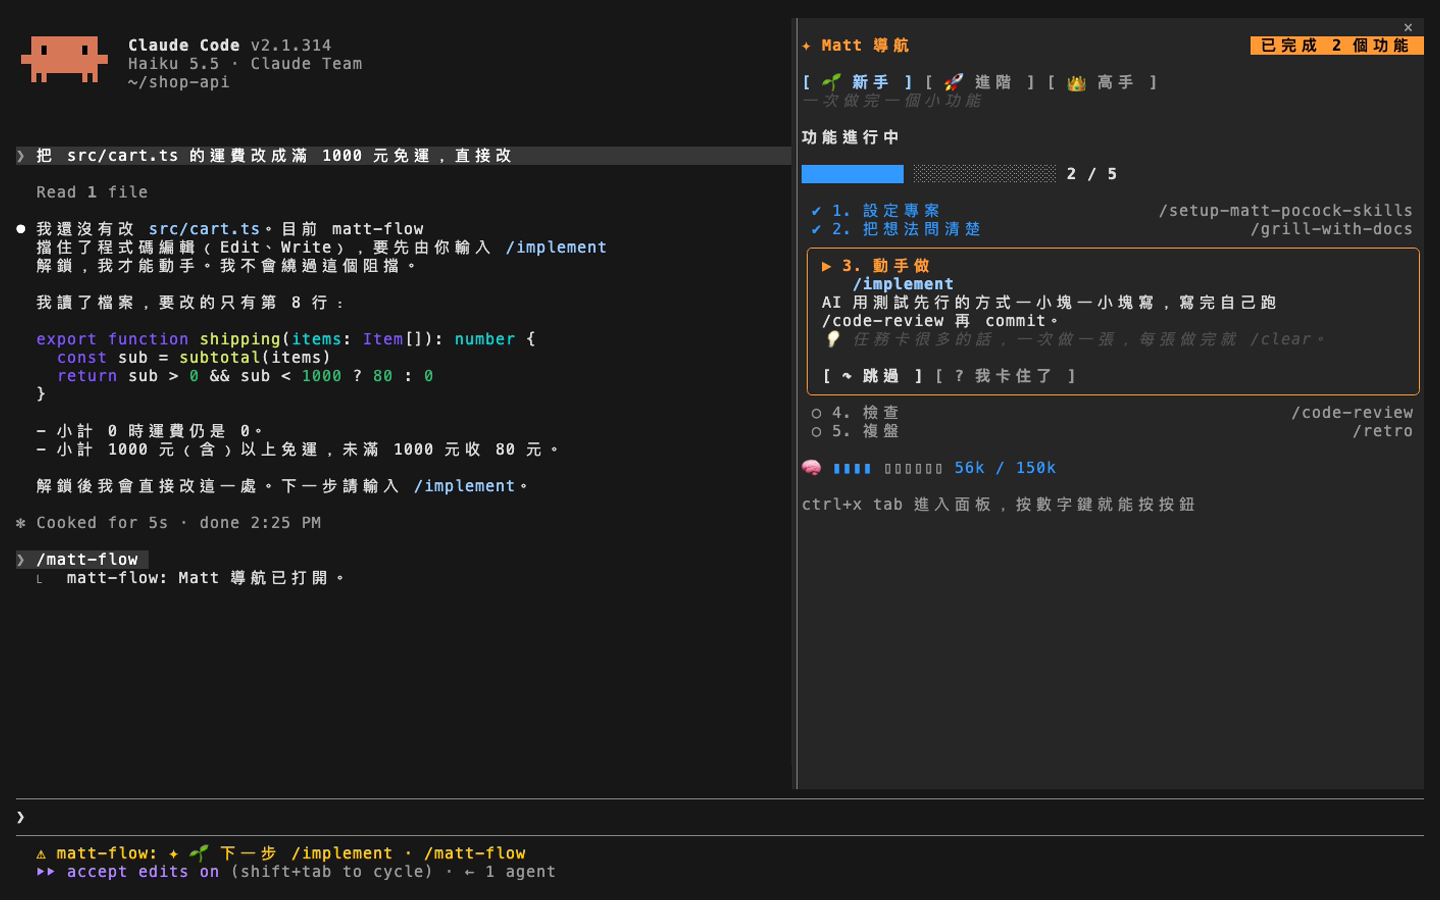
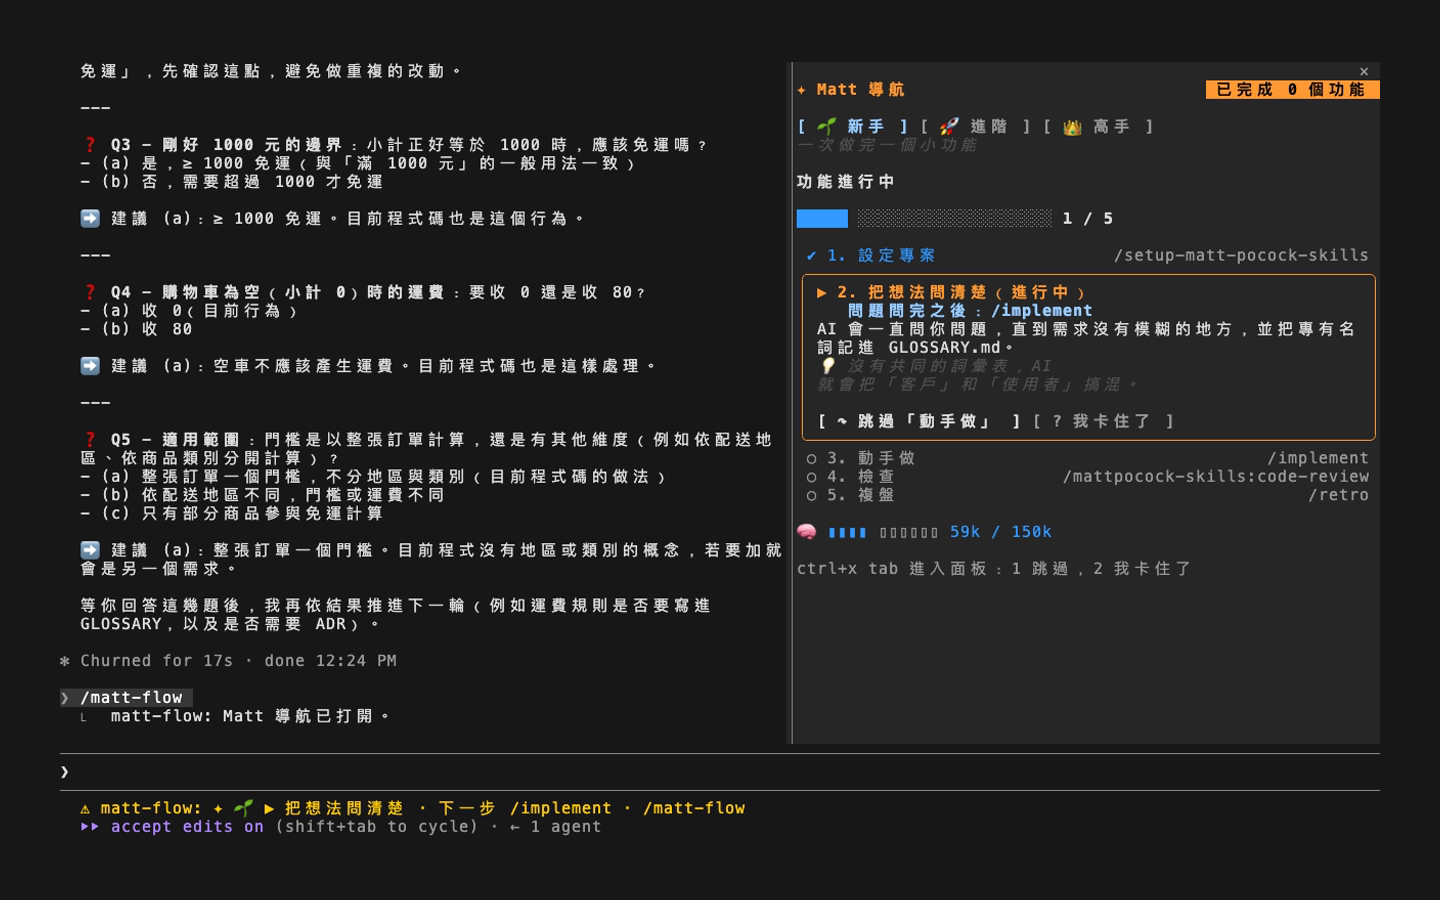
matt-flow 0.7: the full review command, a gate for this project's commits only, a live check
- The review step is /mattpocock-skills:code-review everywhere matt-flow names it: Claude Code's own /code-review runs in the background, unseen by matt-flow.
- The commit gate reads each commit's own folder, by its `git -C` or the `cd` before it, and lets one outside the project go. Relative, ~ and $VAR folders still count as the project.
- scripts/live-check runs the mod in a real Haiku session: a jump dropped, a skip kept, the code gate refusing an edit after /clear, each step waited for on screen and the refusal read from the transcript.
- docs/new-project.md links to README for commands and rules; the pane and stuck screenshots show 0.6 onwards; the comment rule matches practice.

diff --git a/hooks/register.test.tsx b/hooks/register.test.tsx
@@ -248,7 +248,7 @@ test('skip on the pane works like /matt-flow skip: it passes over the next step,
   await ui.press({ key: 'skip' })
   expect(toasts.at(-1)).toBe('↷ 跳過「檢查」→ 下一步 /retro')
   expect((await ui.find({ type: 'Text', text: /把想法問清楚/ }))?.text).toBe('✔ 2. 把想法問清楚')
-  expect((await ui.find({ type: 'Text', text: /檢查/ }))?.text).toBe('↷ 4. 檢查（跳過）')
+  expect((await ui.find({ type: 'Text', text: /4\. 檢查/ }))?.text).toBe('↷ 4. 檢查（跳過）')
   expect((await ui.find({ type: 'Text', text: /^[▶→] / }))?.text).toBe('▶ 3. 動手做（進行中）')
   await ui.unmount()
 })
@@ -347,7 +347,7 @@ test('a later step typed before building runs and moves nothing: building is not
   engine(on)
   await start($)
   await typed($, 'grill-with-docs')
-  expect((await typed($, 'code-review')).drop).toBeUndefined()
+  expect((await typed($, 'mattpocock-skills:code-review')).drop).toBeUndefined()
 
   expect(await card($)).toBe('▶ 2. 把想法問清楚（進行中）')
   expect((await edit($, 'src/app.ts')).deny).toMatch(/\/implement/)
@@ -403,7 +403,7 @@ test('a feature is done once the person ends it with its retro under way: it cou
 
   await typed($, 'grill-with-docs')
   expect(await seen($, /進行中/)).toBe('功能進行中')
-  for (const skill of ['implement', 'code-review', 'retro']) await typed($, skill)
+  for (const skill of ['implement', 'mattpocock-skills:code-review', 'retro']) await typed($, skill)
   expect(await card($)).toBe('▶ 5. 複盤（進行中）')
   expect(await seen($, /之後/)).toBe('   複盤建議的環境改完之後：/matt-flow end')
   expect(await seen($, /已完成/)).toMatch(/已完成 0 個功能/)
@@ -416,7 +416,7 @@ test('a feature is done once the person ends it with its retro under way: it cou
 test('while the retro is under way code stays open for its changes, until the person ends the feature', async ($, on) => {
   const { toasts } = engine(on)
   await start($)
-  for (const skill of ['grill-with-docs', 'implement', 'code-review', 'retro']) await typed($, skill)
+  for (const skill of ['grill-with-docs', 'implement', 'mattpocock-skills:code-review', 'retro']) await typed($, skill)
 
   expect(toasts.at(-1)).toBe('✔ 檢查 通過 · ▶ 開始「複盤」：複盤建議的環境改完之後，下一步 /matt-flow end')
   expect((await edit($, 'src/app.ts')).deny).toBeUndefined()
@@ -431,7 +431,7 @@ test('while the retro is under way code stays open for its changes, until the pe
 test('typing /grill-with-docs with the retro under way ends that feature done and starts the next', async ($, on) => {
   const { toasts } = engine(on)
   await start($)
-  for (const skill of ['grill-with-docs', 'implement', 'code-review', 'retro', 'grill-with-docs']) await typed($, skill)
+  for (const skill of ['grill-with-docs', 'implement', 'mattpocock-skills:code-review', 'retro', 'grill-with-docs']) await typed($, skill)
 
   expect(toasts.at(-1)).toBe('🎉 功能結束，已完成 1 個功能 · ▶ 開始「把想法問清楚」：問題問完之後，下一步 /implement')
   expect(await card($)).toBe('▶ 2. 把想法問清楚（進行中）')
@@ -443,7 +443,7 @@ test('the next command goes in the prompt box once the step is seen done: after 
   await start($)
   await typed($, 'grill-with-docs')
   await typed($, 'implement')
-  expect(toasts.at(-1)).toBe('✔ 把想法問清楚 通過 · ▶ 開始「動手做」：寫完之後，下一步 /code-review')
+  expect(toasts.at(-1)).toBe('✔ 把想法問清楚 通過 · ▶ 開始「動手做」：寫完之後，下一步 /mattpocock-skills:code-review')
   await turnEnds($)
   expect(suggested).toEqual([])
 
@@ -464,7 +464,7 @@ test('grilling and the retro are done when the person says so: neither offers th
   expect(toasts).toEqual(['▶ 開始「把想法問清楚」：問題問完之後，下一步 /implement'])
   expect(suggested).toEqual([])
 
-  for (const skill of ['implement', 'code-review', 'retro']) await typed($, skill)
+  for (const skill of ['implement', 'mattpocock-skills:code-review', 'retro']) await typed($, skill)
   await turnEnds($)
   expect(suggested).toEqual([])
 })
@@ -530,7 +530,7 @@ test('a step after the next one is dropped while building too, and the model jum
   await typed($, 'grill-with-docs')
   await typed($, 'implement')
 
-  expect((await typed($, 'retro')).drop).toMatch(/還沒到「複盤」。下一步是「檢查」：輸入 \/code-review；/)
+  expect((await typed($, 'retro')).drop).toMatch(/還沒到「複盤」。下一步是「檢查」：輸入 \/mattpocock-skills:code-review；/)
   expect((await $.tool.call({ tool: 'Skill', skill: 'mattpocock-skills:retro' })).deny).toMatch(/還沒到「複盤」.*停下來/)
   expect(await card($)).toBe('▶ 3. 動手做（進行中）')
 })
@@ -704,7 +704,7 @@ test('a beginner building cannot commit until code-review runs, then every later
 
   expect((await bash($, 'git commit -m "wip"')).deny).toMatch(/code-review/)
   expect((await bash($, `git -C ${REPO} commit -m "wip"`)).deny).toMatch(/code-review/)
-  for (const options of ['--no-pager -c user.name=x --git-dir=.git', '--work-tree /w', '--git-dir repo/.git', '-C "/a b"']) {
+  for (const options of ['--no-pager -c user.name=x --git-dir=.git', '--work-tree /w', '--git-dir repo/.git', `-C "${REPO}/a b"`]) {
     expect((await bash($, `git ${options} commit -m "wip"`)).deny).toMatch(/code-review/)
   }
   await $.tool.call({ tool: 'Skill', skill: 'mattpocock-skills:code-review' })
@@ -718,11 +718,11 @@ test('an intermediate building waits for code-review too, the person typing it c
   for (const skill of ['grill-with-docs', 'to-spec', 'to-tickets', 'implement']) await typed($, skill)
 
   expect((await bash($, 'git commit -m "wip"')).deny).toMatch(/code-review/)
-  await typed($, 'code-review')
+  await typed($, 'mattpocock-skills:code-review')
   expect((await bash($, 'git commit -m "feat"')).deny).toBeUndefined()
 })
 
-test('a denied commit offers /code-review, and each /implement the person types wants its own review', async ($, on) => {
+test('a denied commit offers the review command, and each /implement the person types wants its own review', async ($, on) => {
   const { suggested } = engine(on)
   await start($)
   await typed($, 'grill-with-docs')
@@ -732,11 +732,44 @@ test('a denied commit offers /code-review, and each /implement the person types 
   const offered = suggested.length
   expect((await bash($, 'git commit -m "wip"')).deny).toBeDefined()
   await turnEnds($)
-  expect(suggested.slice(offered)).toEqual(['/code-review'])
-  await typed($, 'code-review')
+  expect(suggested.slice(offered)).toEqual(['/mattpocock-skills:code-review'])
+  await typed($, 'mattpocock-skills:code-review')
   expect((await bash($, 'git commit -m "first"')).deny).toBeUndefined()
   await typed($, 'implement')
   expect((await bash($, 'git commit -m "second"')).deny).toMatch(/code-review/)
+})
+
+test("the commit gate holds this project's commits only: one sent elsewhere by an absolute path goes", async ($, on) => {
+  engine(on)
+  await start($)
+  await typed($, 'grill-with-docs')
+  await typed($, 'implement')
+
+  for (const command of [
+    'git -C /elsewhere/repo commit -m "x"',
+    'cd /elsewhere/repo && git commit -m "x"',
+    'cd "/elsewhere/a b"; git commit -m "x"',
+    'mkdir -p /elsewhere/x\ncd /elsewhere/x && git init -q && git commit -m "x"',
+    '(cd /elsewhere/x && git commit -m "x")',
+  ]) {
+    expect((await bash($, command)).deny).toBeUndefined()
+  }
+  // Each commit's own folder decides: this project's, a relative one, ~ or a variable, or one the path only seems to leave.
+  for (const command of [
+    `git -C ${REPO}/hooks commit -m "x"`,
+    `cd ${REPO} && git commit -m "x"`,
+    'cd sub && git commit -m "x"',
+    'cd ~/x && git commit -m "x"',
+    'cd "$TMPDIR/x" && git commit -m "x"',
+    `cd /elsewhere/repo && git commit -m "x" && cd ${REPO} && git commit -m "y"`,
+    'git commit -m "x" && cd /elsewhere',
+    'git -C /elsewhere status && git commit -m "x"',
+    'git add . && make -C /elsewhere/b && git commit -m "x"',
+    'git commit -m "add the -C /tmp flag"',
+    `git -C /elsewhere/..${REPO} commit -m "x"`,
+  ]) {
+    expect((await bash($, command)).deny).toMatch(/code-review/)
+  }
 })
 
 test('commits outside building, and Bash that does not commit, always go', async ($, on) => {
@@ -867,7 +900,7 @@ test('while building, the rail locks only the commit, until code-review runs', a
   expect(text).not.toMatch(/改程式碼（Edit/)
   expect(text).not.toMatch(/仍可以/)
   expect(text).toMatch(/git commit.*code-review/)
-  expect((await typed($, 'code-review')).context?.join()).toMatch(/現在會被擋的動作：沒有/)
+  expect((await typed($, 'mattpocock-skills:code-review')).context?.join()).toMatch(/現在會被擋的動作：沒有/)
 })
 
 test('the rail rides along with a prompt only when it changed', async ($, on) => {
@@ -1036,7 +1069,7 @@ test('/matt-flow skip skips the step the flow stands on, and says what is next',
   expect(await flow($, 'skip')).toBe('↷ 跳過「把想法問清楚」→ 下一步 /implement')
   expect(await seen($, /進行中/)).toBe('功能進行中')
   expect((await edit($, 'src/app.ts')).deny).toMatch(/\/implement/)
-  expect(await flow($, 'skip')).toBe('↷ 跳過「動手做」→ 下一步 /code-review')
+  expect(await flow($, 'skip')).toBe('↷ 跳過「動手做」→ 下一步 /mattpocock-skills:code-review')
   expect((await edit($, 'src/app.ts')).deny).toBeUndefined()
 })
 
@@ -1055,7 +1088,7 @@ test('a feature ended before its retro is aborted and does not count; one ended 
   expect(await flow($, 'skip')).toBe('⏹ 功能中止：沒做到複盤，不算完成 → 下一個從 /grill-with-docs 開始')
 
   // A retro under way ran: skipping it, like ending the feature, finishes the feature done.
-  for (const skill of ['grill-with-docs', 'implement', 'code-review', 'retro']) await typed($, skill)
+  for (const skill of ['grill-with-docs', 'implement', 'mattpocock-skills:code-review', 'retro']) await typed($, skill)
   expect(await flow($, 'skip')).toBe('🎉 功能結束，已完成 1 個功能 → 下一個從 /grill-with-docs 開始')
 })
 
@@ -1173,7 +1206,7 @@ test('an intermediate building hands over both ways: the next ticket, or the ret
   // The next ticket is the step under way again; the retro waits for this build's code-review.
   expect((await typed($, 'implement')).drop).toBeUndefined()
   expect((await typed($, 'retro')).drop).toMatch(/「動手做」還沒做完：這次動手做還沒跑過 code-review。做完再輸入 \/retro/)
-  await typed($, 'code-review')
+  await typed($, 'mattpocock-skills:code-review')
   expect((await typed($, 'retro')).drop).toBeUndefined()
   expect(await card($)).toBe('▶ 6. 複盤（進行中）')
 })
@@ -1189,7 +1222,7 @@ test("an expert's /implement-spec hands over to /pr, not to another /implement",
 test('the feature takes the title of the first commit Claude makes while building, when no spec named it', async ($, on) => {
   engine(on, { commit: 'Add a login page' })
   await start($)
-  for (const skill of ['grill-with-docs', 'implement', 'code-review']) await typed($, skill)
+  for (const skill of ['grill-with-docs', 'implement', 'mattpocock-skills:code-review']) await typed($, skill)
   await bash($, 'git commit -m "Add a login page"')
 
   expect(await seen($, /進行中/)).toBe('功能「Add a login page」進行中')
@@ -1203,7 +1236,7 @@ test('a commit before building, one denied, or one that moved nothing names noth
   await bash($, 'git commit -m "Docs: a glossary"')
   await typed($, 'implement')
   await bash($, 'git commit -m "wip"')
-  await typed($, 'code-review')
+  await typed($, 'mattpocock-skills:code-review')
   await bash($, 'git commit --dry-run -m "wip"')
 
   expect(await seen($, /進行中/)).toBe('功能進行中')

diff --git a/hooks/register.tsx b/hooks/register.tsx
@@ -52,13 +52,14 @@ const STEPS = {
     title: '動手做',
     command: '/implement',
     skills: ['implement'],
-    what: 'AI 用測試先行的方式一小塊一小塊寫，寫完自己跑 /code-review 再 commit。',
+    what: 'AI 用測試先行的方式一小塊一小塊寫，寫完自己跑檢查再 commit。',
     tip: '任務卡很多的話，一次做一張，每張做完就 /clear。',
     criterion: '寫完',
   },
   review: {
     title: '檢查',
-    command: '/code-review',
+    // The full name: Claude Code has a /code-review of its own, which matt-flow cannot see.
+    command: '/mattpocock-skills:code-review',
     skills: ['code-review'],
     what: '對照專案規範和規格，從兩個方向檢查這次的改動。/implement 通常會自己跑這步。',
     tip: '檢查的 AI 只看 diff，不用重新摸索整個專案，所以抓得準。',
@@ -168,7 +169,30 @@ const unlockStep = (p: Progress) => (p.feature && nextStep(p, true)) || 'grill'
 // A `git commit`, past the options git takes first (`git -C dir commit`, `git --no-pager commit`).
 // ponytail: knows the options that take a separate value by name; an alias (`git ci`) or another such option gets past, add it when one shows.
 const GIT_COMMIT =
-  /\bgit(?:\s+(?:(?:-[cC]|--(?:git-dir|work-tree|namespace|exec-path|config-env))\s+(?:"[^"]*"|'[^']*'|\S+)|--?[\w-]+(?:=\S+)?))*\s+commit\b/
+  /\bgit((?:\s+(?:(?:-[cC]|--(?:git-dir|work-tree|namespace|exec-path|config-env))\s+(?:"[^"]*"|'[^']*'|\S+)|--?[\w-]+(?:=\S+)?))*)\s+commit\b/
+const unquote = (word: string) => word.replace(/^(["'])(.*)\1$/, '$2')
+// An absolute path with `.` and `..` folded away, so `/elsewhere/../repo` reads as `/repo`.
+const fold = (path: string) =>
+  `/${path.split('/').reduce<string[]>((parts, part) => (part === '..' ? parts.slice(0, -1) : part === '' || part === '.' ? parts : [...parts, part]), []).join('/')}`
+// Whether every commit in a command runs, by its own `git -C` or a `cd` before it, in a folder outside the project:
+// the gate holds this project's commits alone.
+// ponytail: a relative, `~` or `$VAR` folder counts as the project, and only `; & | ( )` and new lines part commands; resolve more when that blocks real work elsewhere.
+const isElsewhere = (root: string, command: string) => {
+  let dir: string | undefined
+  let commits = 0
+  for (const part of command.split(/&&|\|\||[;&|()\n]/)) {
+    const cd = /^\s*cd\s+("[^"]*"|'[^']*'|\S+)\s*$/.exec(part)?.[1]
+    if (cd !== undefined) dir = unquote(cd)
+    const options = GIT_COMMIT.exec(part)?.[1]
+    if (options === undefined) continue
+    commits += 1
+    const own = /-C\s+("[^"]*"|'[^']*'|\S+)/.exec(options)?.[1]
+    const at = own === undefined ? dir : unquote(own)
+    if (at === undefined || !at.startsWith('/') || `${fold(at)}/`.startsWith(`${root}/`)) return false
+  }
+
+  return commits > 0
+}
 // Beginners and intermediates commit what they build only after code-review has run.
 const isCommitLocked = (p: Progress) => p.level !== 'expert' && isBuilding(p) && !p.isReviewed
 // The retro under way ends with this: the feature is done then.
@@ -594,7 +618,7 @@ const locksOf = (p: Progress) => [
   ...(isBuilding(p)
     ? []
     : [{ action: '改程式碼（Edit、Write、NotebookEdit）', unlock: `由人輸入 ${STEPS[unlockStep(p)].command} 解鎖` }]),
-  ...(isCommitLocked(p) ? [{ action: 'git commit', unlock: '先跑 code-review（Skill 工具，或請人輸入 /code-review）' }] : []),
+  ...(isCommitLocked(p) ? [{ action: 'git commit', unlock: `先跑 code-review（Skill 工具，或請人輸入 ${STEPS.review.command}）` }] : []),
 ]
 
 // Why running `command` is denied, or undefined while it may go ahead. A subagent
@@ -602,12 +626,13 @@ const locksOf = (p: Progress) => [
 async function commitGate($: EngineInterface, command: string, isAgent: boolean) {
   if (!GIT_COMMIT.test(command)) return undefined
   await revive($)
-  if (await isQuiet($)) return undefined
+  const root = await read($, project)
+  if (root === null || (await isQuiet($)) || isElsewhere(root, command)) return undefined
   const p = await read($, progress)
   if ((isAgent && p.steps.parallel) || !isCommitLocked(p)) return undefined
   suggestion = STEPS.review.command
 
-  return 'matt-flow：這次動手做還沒跑過 code-review，先不能 commit。先用 Skill 工具跑 code-review（或請人輸入 /code-review），跑過之後的 commit 都會放行。不要繞過這個阻擋。'
+  return `matt-flow：這次動手做還沒跑過 code-review，先不能 commit。先用 Skill 工具跑 code-review（或請人輸入 ${STEPS.review.command}），跑過之後的 commit 都會放行。不要繞過這個阻擋。`
 }
 
 // Claude's own map of the rail, sent beside the person's prompt: where the flow

diff --git a/docs/new-project.md b/docs/new-project.md
@@ -75,7 +75,7 @@ flowchart TD
 | --- | --- |
 | ① 把想法問清楚 | `/grill-with-docs` |
 | ② 動手做 | `/implement` |
-| ③ 檢查 | `/code-review`（`/implement` 最後通常會自己跑，跑過就算） |
+| ③ 檢查 | `/mattpocock-skills:code-review`（`/implement` 最後通常會自己跑，跑過就算） |
 | ④ 複盤 | `/retro` |
 | 結束功能 | `/matt-flow end`（複盤改完之後；直接打 `/grill-with-docs` 開始下一個也可以） |
 
@@ -86,25 +86,17 @@ flowchart TD
 - 「把想法問清楚」：你覺得問清楚了，自己輸入 `/implement`。新手等級在這一步和「動手做」之間不要清空對話，動手做靠的就是前面問清楚的內容。
 - 「複盤」：改完複盤建議的環境，輸入 `/matt-flow end`，功能才算完成。
 
-在「動手做」之前叫 Claude 改程式碼，會被擋下來。這是正常的：matt-flow 要你先把想法問清楚再寫程式。Claude 會停下來，告訴你該打的指令。跳步的指令也會被擋：例如還沒問清楚就打 `/implement`，畫面會告訴你下一步是什麼；真的要跳過，先打 `/matt-flow skip`。
+在「動手做」之前叫 Claude 改程式碼，會被擋下來。這是正常的：matt-flow 要你先把想法問清楚再寫程式。Claude 會停下來，告訴你該打的指令。跳步的指令也會被擋，畫面會告訴你下一步是什麼，見 README 的[跳步會被擋下](../README.md#跳步會被擋下)。
 
 中途想停，直接關掉 Claude Code 就好，進度會留著，下次接著做。
 
 ## 常用指令
 
-| 指令 | 作用 |
-| --- | --- |
-| `/matt-flow` | 打開或關閉面板：看進度、換等級 |
-| `/matt-flow all` | 看所有專案各停在哪一步 |
-| `/matt-flow skip` | 跳過流程所在的那一步 |
-| `/matt-flow end` | 結束目前的功能（還沒做到複盤就結束，算中止，不算完成） |
-| `/matt-flow off` | 在這個專案關掉 matt-flow，`/matt-flow on` 再打開 |
+輸入 `/matt-flow` 打開面板看進度，卡住時按面板上的「? 我卡住了」。總覽（看所有專案）、跳過、結束、關掉這些指令，見 README 的[跳過、結束、關掉](../README.md#跳過結束關掉)；面板的用法見[面板](../README.md#面板)。
 
-卡住的時候，打開面板按「? 我卡住了」（終端機裡先按 `ctrl+x tab`，再按 `2`）。它會把你卡在哪一步整理好，放在輸入框最前面，用 `/ask-matt` 問；你打到一半的字會接在後面。
+很小的改動（例如改一行字）：先打 `/matt-flow skip` 跳過「把想法問清楚」，再打 `/implement 把按鈕改成藍色`。做完記得把功能走完或結束，不然程式碼會一直解鎖。
 
-很小的改動（例如改一行字）：先打 `/matt-flow skip` 跳過「把想法問清楚」，再打 `/implement 把按鈕改成藍色`。做完照樣走檢查和複盤，或用 `/matt-flow end` 結束（算中止）；功能一直開著的話，程式碼也一直是解鎖的。這個專案完全不想被管，就輸入 `/matt-flow off`。
-
-進度存在這台電腦上，關掉 Claude Code 也不會不見。熟了以後，可以在面板換成 🚀 進階或 👑 高手，差別見 README 的「等級」。
+進度存在這台電腦上，關掉 Claude Code 也不會不見。熟了以後，可以在面板換成 🚀 進階或 👑 高手，差別見 README 的[等級](../README.md#等級)。
 
 ## 在現有的專案試用
 

diff --git a/CODING_STANDARDS.md b/CODING_STANDARDS.md
@@ -4,6 +4,6 @@ Read during review. Each rule is a judgement call; validate, the tests and the t
 
 - **Glossary terms**: user-facing text (the rail, toasts, denials, the pane, README) and names use GLOSSARY.md's term for a concept, never a word on its _Avoid_ list for that same concept.
 - **README follows behaviour**: a change to what the person sees or types updates README.md in the same commit.
-- **Comments say why**, in one line, in the surrounding style.
+- **Comments say why**, in the surrounding style: one line where one will do, a function header three at most, its `ponytail:` line apart.
 - **Known limits are marked**: a deliberate shortcut with a ceiling gets a `ponytail:` comment naming the ceiling and the way up.
 - **Tests go through the engine**: they drive the mod by the testing kit's engine events and stub the engine beneath it; no test reaches into the module.
